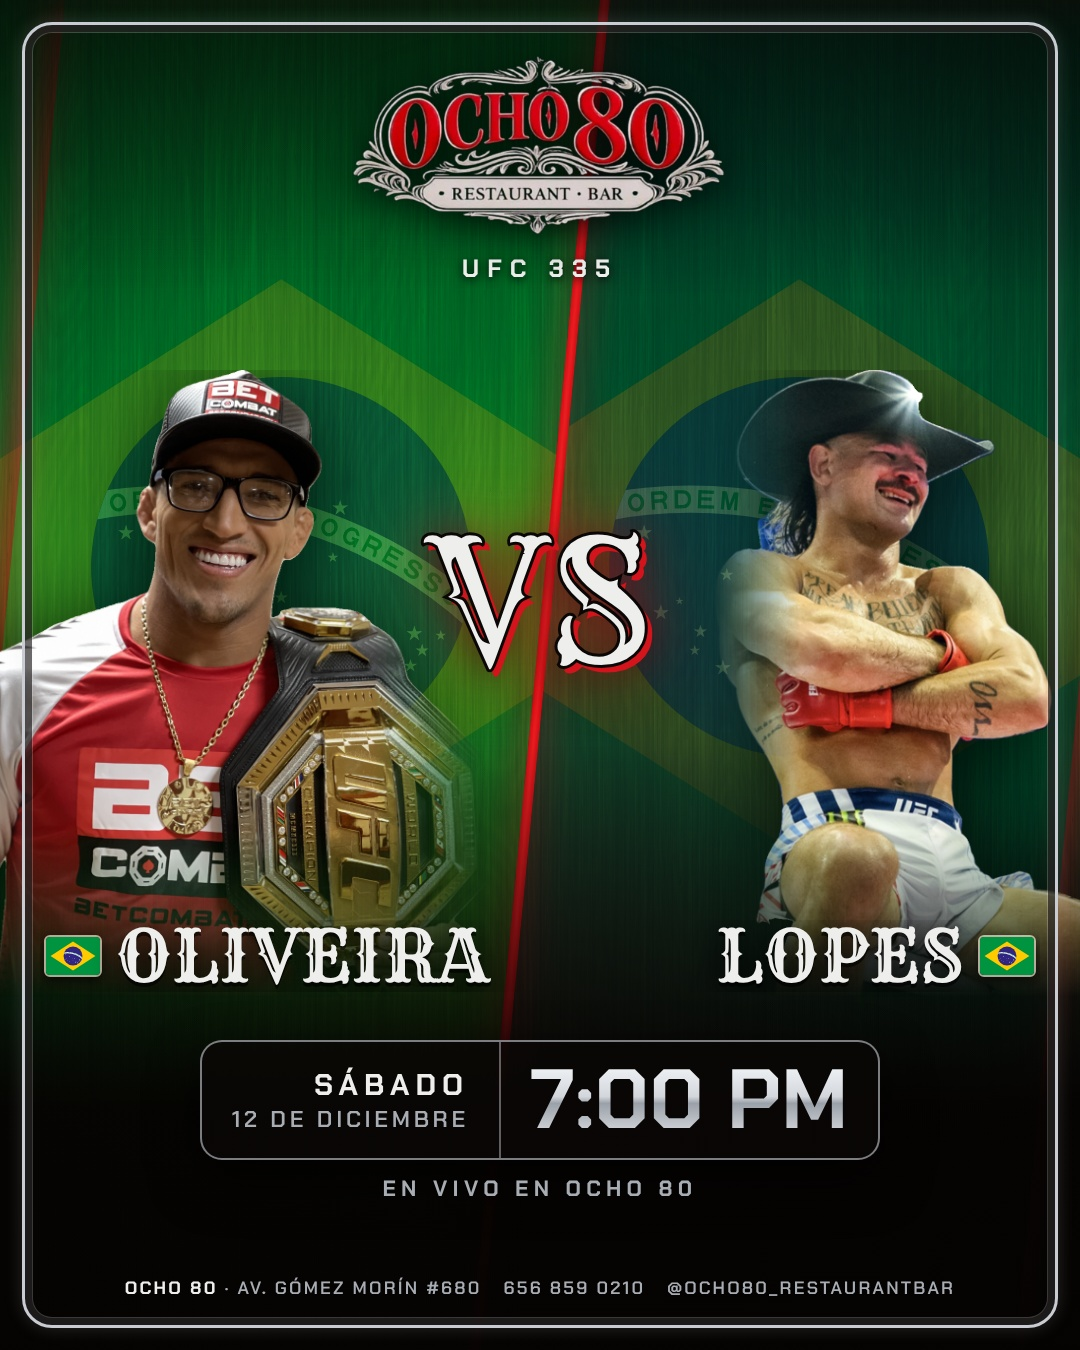
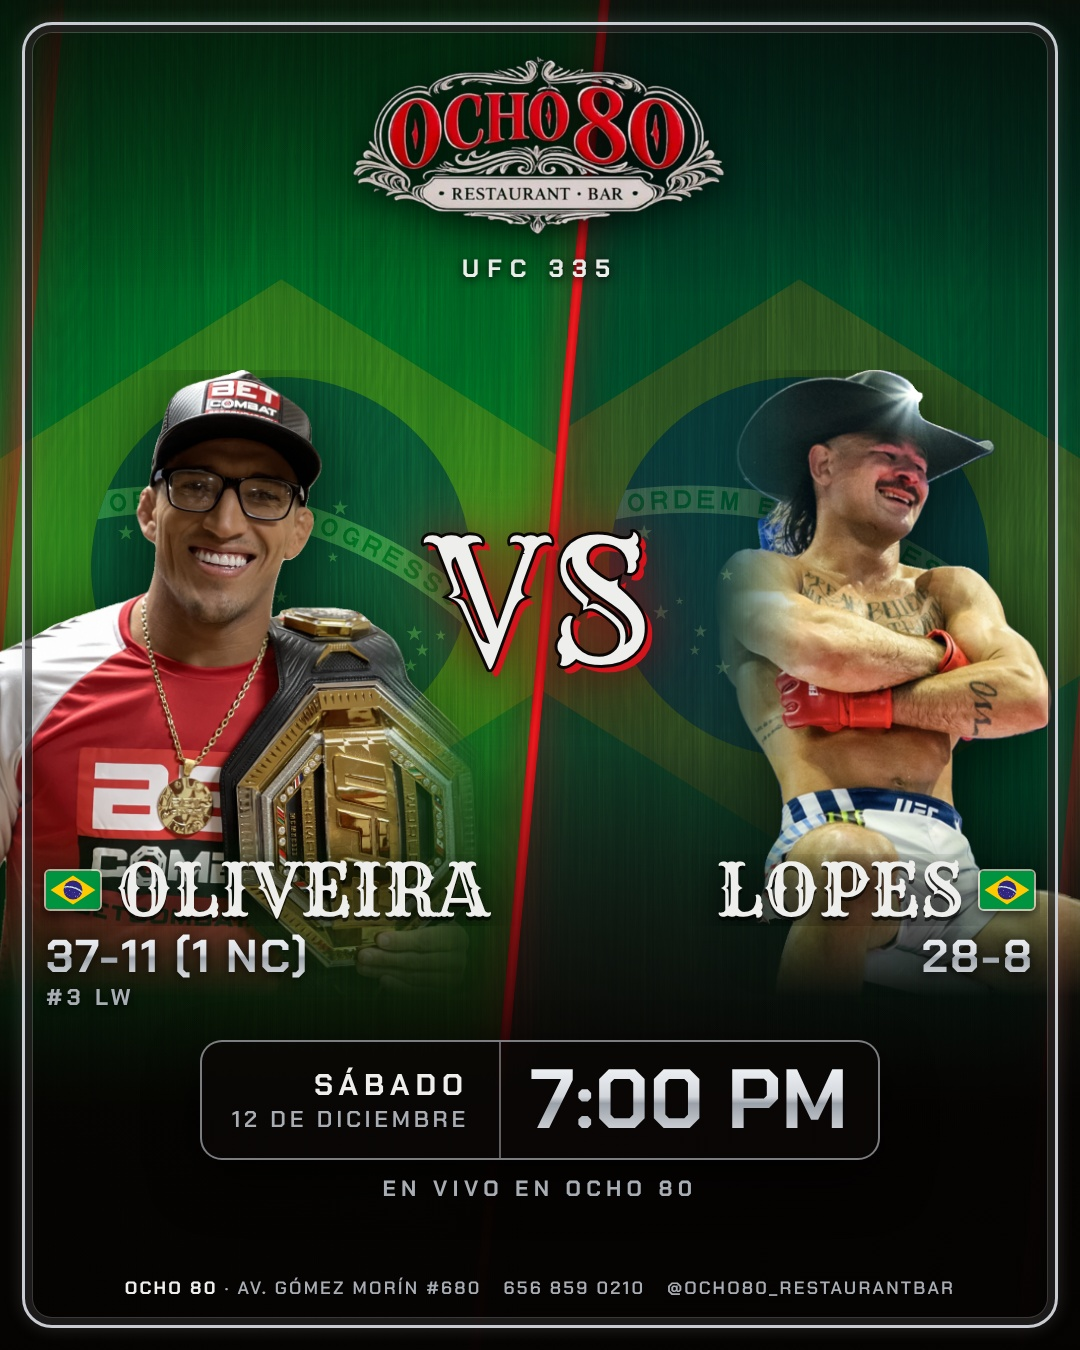
Flyers: show each side's record/ranking under the name (UFC record + rank, NFL W-L, Liga MX points + position)
- event.stats {asOf, enteringGame, source, sides[{record, rank}]}; printed only when enteringGame is true
- stats filled for UFC 334/335, Procházka-Stirling, Juárez-Atlas, Steelers-Bengals
- plan-de-publicacion.md lists which flyers show records and source conflicts
- weekly task now collects stats

Claude-Session: https://claude.ai/code/session_01TWvdkjVjQiz8FCpgTmoDNT

Changed region(s): [[0.0306, 0.6222, 0.4583, 0.7467], [0.6722, 0.6222, 0.9778, 0.7467]]

diff --git a/scripts/flyers/templates.js b/scripts/flyers/templates.js
@@ -158,10 +158,14 @@ export function eventFlyer(event, promo, size = 'feed') {
     return `<div class="mark mark-${side}"><div class="mono rye" style="background:${p.colors?.[0] ?? '#333'}">${esc(initials(p))}</div></div>`
   }
 
-  const name = (p, v, side) => `<div class="name name-${side}" data-fit>
-    ${v.flag && p.kind === 'fighter' && side === 'L' ? `<img class="badge" src="${v.flag}" alt="">` : ''}
-    <span class="rye nm" data-fit-text>${esc(p.short ?? p.name.es)}</span>
-    ${v.flag && p.kind === 'fighter' && side === 'R' ? `<img class="badge" src="${v.flag}" alt="">` : ''}</div>`
+  // record / ranking under each name, only when the data says these are the numbers each side brings INTO this game
+  const stats = event.stats?.enteringGame ? event.stats.sides : null
+  const name = (p, v, side, i) => `<div class="nb nb-${side}">
+    <div class="name name-${side}" data-fit>
+      ${v.flag && p.kind === 'fighter' && side === 'L' ? `<img class="badge" src="${v.flag}" alt="">` : ''}
+      <span class="rye nm" data-fit-text>${esc(p.short ?? p.name.es)}</span>
+      ${v.flag && p.kind === 'fighter' && side === 'R' ? `<img class="badge" src="${v.flag}" alt="">` : ''}</div>
+    ${stats?.[i] ? `<div class="stat stat-${side}"><span class="rec">${esc(stats[i].record)}</span>${stats[i].rank ? `<span class="rk">${esc(stats[i].rank)}</span>` : ''}</div>` : ''}</div>`
 
   const cx = (side) => (side === 'L' ? 0.24 : 0.76) * w
   const cy = midY * h + D
@@ -188,9 +192,16 @@ export function eventFlyer(event, promo, size = 'feed') {
 .cut-R{-webkit-mask-image:linear-gradient(180deg,#000 72%,transparent 98%),linear-gradient(90deg,transparent 0%,#000 22%);right:${story ? -40 : -30}px;max-width:${w * 0.62}px;object-fit:contain;object-position:bottom right}
 .vs{position:absolute;z-index:8;left:50%;top:${fighters ? (story ? 0.36 : 0.40) * h + D : cy}px;transform:translate(-50%,-50%);font-size:${vsSize}px;line-height:1;color:var(--bone);
   text-shadow:0 0 0 #000,6px 6px 0 var(--ember),0 0 60px rgba(240,38,46,.75),0 10px 40px rgba(0,0,0,.9);-webkit-text-stroke:3px #0a0706}
-.name{position:absolute;z-index:9;top:${fighters ? infoTop - 120 : nameY}px;width:${w * (fighters ? 0.46 : 0.4)}px;padding:0 4px;overflow:hidden;display:flex;align-items:center;justify-content:center;gap:14px}
-.name-L{left:${fighters ? 40 : cx('L') - w * 0.2}px;${fighters ? 'justify-content:flex-start;' : ''}}
-.name-R{left:${fighters ? w - 40 - w * 0.46 : cx('R') - w * 0.2}px;${fighters ? 'justify-content:flex-end;' : ''}}
+.nb{position:absolute;z-index:9;top:${(fighters ? infoTop - 120 : nameY) - (stats ? (fighters ? 66 : 14) : 0)}px;width:${w * (fighters ? 0.46 : 0.4)}px;display:flex;flex-direction:column;gap:6px}
+.nb-L{left:${fighters ? 40 : cx('L') - w * 0.2}px;align-items:${fighters ? 'flex-start' : 'center'}}
+.nb-R{left:${fighters ? w - 40 - w * 0.46 : cx('R') - w * 0.2}px;align-items:${fighters ? 'flex-end' : 'center'}}
+.name{width:100%;padding:0 4px;overflow:hidden;display:flex;align-items:center;justify-content:center;gap:14px}
+.name-L{${fighters ? 'justify-content:flex-start;' : ''}}
+.name-R{${fighters ? 'justify-content:flex-end;' : ''}}
+.stat{display:flex;flex-direction:column;gap:2px;padding:0 6px;width:100%}
+.stat-L{align-items:${fighters ? 'flex-start' : 'center'}}.stat-R{align-items:${fighters ? 'flex-end' : 'center'}}
+.rec{font-weight:700;font-size:46px;line-height:1.05;letter-spacing:.04em;color:var(--silver);background:var(--metal);-webkit-background-clip:text;background-clip:text;-webkit-text-fill-color:transparent;filter:drop-shadow(0 2px 6px rgba(0,0,0,.8))}
+.rk{font-weight:700;font-size:23px;letter-spacing:.18em;text-transform:uppercase;color:var(--bone-dim);text-shadow:0 2px 8px rgba(0,0,0,.9)}
 .nm{font-size:${fighters ? 72 : 62}px;line-height:1;color:var(--bone);text-shadow:0 4px 0 rgba(0,0,0,.6),0 8px 30px rgba(0,0,0,.95);white-space:nowrap}
 .badge{flex:none;height:42px;border-radius:6px;box-shadow:0 4px 12px rgba(0,0,0,.7);border:2px solid rgba(239,230,212,.7)}
 .info{position:absolute;z-index:10;left:0;right:0;top:${infoTop}px;display:flex;flex-direction:column;align-items:center;gap:${story ? 22 : 14}px}
@@ -211,7 +222,7 @@ ${sideBg(A, va, 'L')}${sideBg(B, vb, 'R')}
 <div class="top">${LOGO()}<span class="label">${label}</span></div>
 ${hero(A, va, 'L')}${hero(B, vb, 'R')}
 <div class="vs rye">VS</div>
-${name(A, va, 'L')}${name(B, vb, 'R')}
+${name(A, va, 'L', 0)}${name(B, vb, 'R', 1)}
 <div class="info">
   <div class="when"><div class="day"><span class="wd">${esc(fmtWeekday(event.kickoff))}</span><span class="dt">${esc(fmtDate(event.kickoff))}</span></div><div><span class="time">${esc(fmtTime(event.kickoff))}</span></div></div>
   <div class="chan">En vivo en Ocho 80</div>

diff --git a/scripts/build-flyers.js b/scripts/build-flyers.js
@@ -98,6 +98,12 @@ function writePlan() {
   const lines = ['# Plan de publicación', '', `Generado ${new Date(now).toISOString().slice(0, 10)} · hora de Ciudad Juárez. Si dos eventos se empalman, solo se publica el de mayor prioridad (config: \`src/data/events/priorities.json\`).`, '']
   lines.push('## Publicar', '')
   for (const e of plan.posted) { const s = plan.scores.get(e.id); lines.push(`- **${name(e)}** · ${hhmm(e)} · ${e.league} · puntos ${s?.score ?? '-'} (${s?.why.join(', ') ?? ''})`) }
+  lines.push('', '## Récords en los flyers', '')
+  for (const e of plan.posted.concat(plan.skipped.map((s) => s.event))) {
+    const s = e.stats
+    const shown = s?.enteringGame ? `sí · ${s.sides.map((x) => [x.record, x.rank].filter(Boolean).join(' ')).join(' vs. ')} (al ${s.asOf})` : 'no (aún no hay récord confirmado de cómo llegan a este partido)'
+    lines.push(`- ${name(e)}: ${shown}${s?.notes ? ` — ${s.notes}` : ''}`)
+  }
   lines.push('', '## No publicar (se empalma con uno de mayor prioridad)', '')
   if (!plan.skipped.length) lines.push('- Ninguno: no hay eventos empalmados.')
   for (const { event: e, conflictsWith: c } of plan.skipped) { const s = plan.scores.get(e.id); lines.push(`- ${name(e)} · ${hhmm(e)} · puntos ${s.score} (${s.why.join(', ')}) → se empalma con **${name(c)}** (${hhmm(c)}, puntos ${plan.scores.get(c.id).score}). Su flyer está en \`alternativas/\` por si prefieres publicarlo en lugar del otro.`) }

diff --git a/src/data/events/schema.js b/src/data/events/schema.js
@@ -18,6 +18,12 @@ export function validateEvent(e, { promoIds = [], participantIds = null } = {}) 
   need(typeof e.verified === 'boolean', 'verified must be true/false')
   if (e.promoId != null && e.promoId !== '') need(promoIds.includes(e.promoId), `promoId "${e.promoId}" not found in promos-by-sport.json`)
   if (e.priority != null) need(typeof e.priority === 'number' && Number.isFinite(e.priority), 'priority must be a number (optional; overrides the computed flyer score)')
+  if (e.stats != null) {
+    const s = e.stats
+    need(Array.isArray(s.sides) && s.sides.length === 2 && s.sides.every((x) => x && typeof x.record === 'string' && x.record.trim()), 'stats.sides must be [left, right], each with a record string (UFC "14-2", NFL "6-2", Liga MX "11 pts")')
+    need(typeof s.enteringGame === 'boolean', 'stats.enteringGame must be true only when these are the records each side brings INTO this game')
+    need(typeof s.asOf === 'string' && /^\d{4}-\d{2}-\d{2}$/.test(s.asOf), 'stats.asOf must be YYYY-MM-DD')
+  }
   if (e.matchup != null) {
     need(Array.isArray(e.matchup) && e.matchup.length === 2 && e.matchup.every((s) => typeof s === 'string'), 'matchup must be [left, right] participant slugs')
     if (participantIds && Array.isArray(e.matchup)) for (const s of e.matchup) need(participantIds.includes(s), `matchup "${s}" not found in participants.json`)

diff --git a/flyers/out/plan-de-publicacion.md b/flyers/out/plan-de-publicacion.md
@@ -20,6 +20,25 @@ Generado 2026-11-13 · hora de Ciudad Juárez. Si dos eventos se empalman, solo 
 - **Panthers vs. Buccaneers** · lun 30 nov 6:15 PM · NFL · Monday Night · puntos 25 (football 25)
 - **Charles Oliveira vs. Diego Lopes** · sáb 12 dic 7:00 PM · UFC 335 · puntos 50 (mma 30, destacado +20)
 
+## Récords en los flyers
+
+- Jamaica vs. México: no (aún no hay récord confirmado de cómo llegan a este partido)
+- Steelers vs. Bengals: sí · 6-2 vs. 6-2 (al 2026-11-13) — One standings site lists the Bengals at 5-2; Bleacher Report and StatMuse say 6-2.
+- México vs. Jamaica: no (aún no hay récord confirmado de cómo llegan a este partido)
+- Colts vs. Texans: no (aún no hay récord confirmado de cómo llegan a este partido)
+- FC Juárez vs. Atlas: sí · 11 pts 18.º lugar vs. 27 pts 5.º lugar (al 2026-11-09) — Table after Jornada 16; this match is Jornada 17, so these are the points each team brings in.
+- Jiří Procházka vs. Navajo Stirling: sí · 32-6-1 #3 LHW vs. 11-0 (al 2026-11-13) — Rankings conflict across sources (Procházka #2/#3, Stirling #5/#6/#7), so Stirling's rank is left out until ufc.com is checked.
+- Titans vs. Cowboys: no (aún no hay récord confirmado de cómo llegan a este partido)
+- Vikings vs. 49ers: no (aún no hay récord confirmado de cómo llegan a este partido)
+- Bengals vs. Commanders: no (aún no hay récord confirmado de cómo llegan a este partido)
+- Bears vs. Lions: no (aún no hay récord confirmado de cómo llegan a este partido)
+- Eagles vs. Cowboys: no (aún no hay récord confirmado de cómo llegan a este partido)
+- Chiefs vs. Bills: no (aún no hay récord confirmado de cómo llegan a este partido)
+- Patriots vs. Chargers: no (aún no hay récord confirmado de cómo llegan a este partido)
+- Panthers vs. Buccaneers: no (aún no hay récord confirmado de cómo llegan a este partido)
+- Charles Oliveira vs. Diego Lopes: sí · 37-11 (1 NC) #3 LW vs. 28-8 (al 2026-11-13) — Lopes is 27-8 on UFC Stats and 28-8 on Tapology/Sherdog; his lightweight rank was inconsistent, so it is left out.
+- Ciryl Gane vs. Josh Hokit: sí · 14-2 Campeón HW vs. 10-0 #10 HW (al 2026-11-13) — Hokit's #10 comes from a single Tapology listing; verify on ufc.com/rankings.
+
 ## No publicar (se empalma con uno de mayor prioridad)
 
 - Ciryl Gane vs. Josh Hokit · sáb 14 nov 7:00 PM · puntos 30 (mma 30) → se empalma con **Jamaica vs. México** (sáb 14 nov 6:00 PM, puntos 150). Su flyer está en `alternativas/` por si prefieres publicarlo en lugar del otro.

diff --git a/research/README.md b/research/README.md
@@ -39,6 +39,13 @@ scripts/
   "notes": ""
 }
 ```
+Optional `stats` shows each side's record under its name on the flyer — only when `enteringGame` is true, i.e. these are the numbers each side brings INTO that game:
+```json
+"stats": { "asOf": "2026-11-13", "enteringGame": true, "source": "https://…",
+  "sides": [ { "record": "14-2", "rank": "Campeón HW" }, { "record": "10-0", "rank": "#10 HW" } ] }
+```
+UFC: `14-2` + ranking (`#3 LHW`). NFL: win-loss(-tie) `6-2` (the NFL has no league points). Liga MX: `11 pts` + position (`18.º lugar`). `sides` follow the `matchup` order. Leave `stats` out (or `enteringGame` false) when a team still has a game to play before this one — the record would be wrong by kickoff — and add it in the next weekly sweep.
+
 Use stable ids (`date-league-teams`) so re-running a sweep updates instead of duplicating.
 
 ## Flyers
